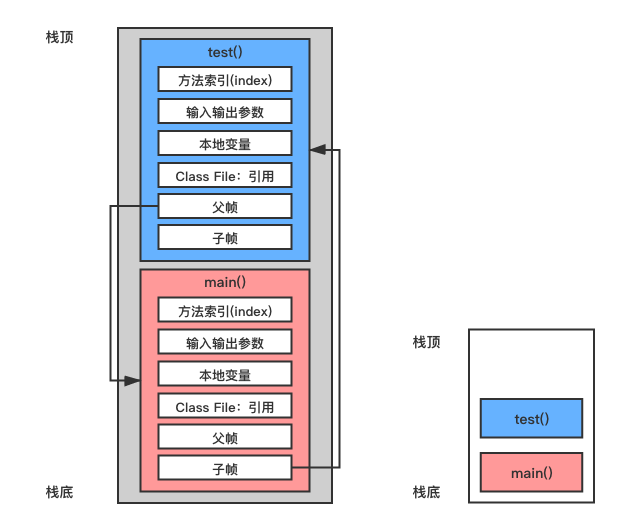
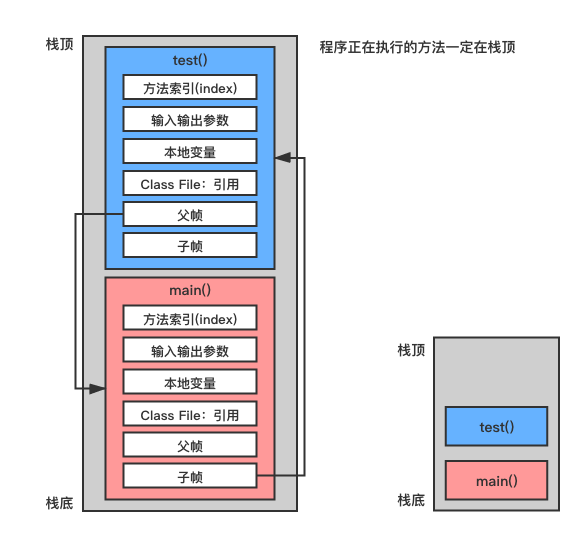
Understanding the JVM

diff --git a/README.md b/README.md
@@ -252,17 +252,36 @@ public class Student {
 
 ## 栈
 
-栈是一种数据结构，又称栈内存，主管程序的运行，生命周期和线程同步。线程结束，栈内存也就是释放了。对于栈来说，不存在垃圾回收问题，一旦线程结束，栈就over了。
+**栈是一种数据结构，又称栈内存，主管程序的运行，生命周期和线程同步。**线程结束，栈内存也就释放了。对于栈来说，不存在垃圾回收问题，一旦线程结束，栈就结束了。
 
-栈存放：8大基本类型+对象的引用+实例的方法
+**栈帧(Stack Frame)**，是用于虚拟机执行时方法调用和方法执行时的数据结构，它是Java虚拟栈的基本元素。
 
-栈运行的原理：栈帧
+虚拟机只会直接对Java栈执行两种操作：以帧为单位的压栈和出栈。
+
+每当线程调用一个Java方法时，虚拟机都会在该线程的Java栈中压入一个新帧。而这个新帧自然就成为了当前帧。在执行这个方法时，它使用这个帧来存储参数、局部变量、中间运算结果等数据。
+
+Java方法可以以两种方式完成。一种通过return返回的，称为正常返回；另一种是通过抛出异常而异常终止的。不管以哪种方式返回，虚拟机都会将当前帧弹出Java栈然后释放掉，这样上一个方法的帧就成为当前帧了。
+
+栈溢出：StackOverflowError。
+
+**栈内存保存：8大基本类型、对象的引用、实例的方法。**
 
 ![栈帧关系](images/栈帧关系.png)
 
-内存中的对象实例化过程
+在内存中的对象实例化过程，突出栈+堆+方法区交互关系。
 
-
+![内存中的对象实例化过程](images/内存中的对象实例化过程.png)
 
 ## 三种JVM
 
+## 堆
+
+## 新生区、老年区
+
+## 永久区
+
+## 堆内存调优
+
+## GC常用算法
+
+## JMM
